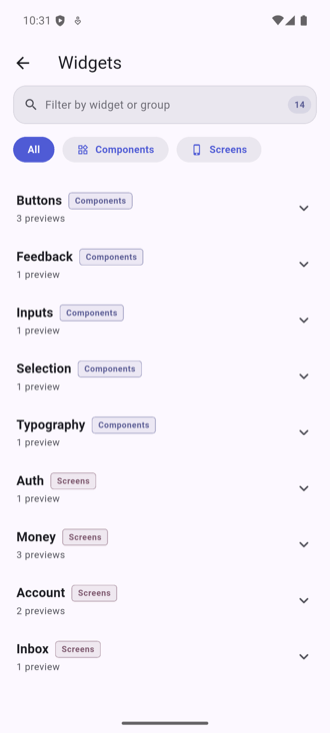
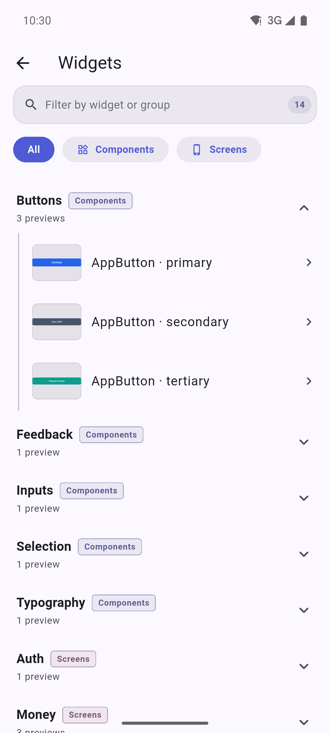
readme and ss updated

diff --git a/README.md b/README.md
@@ -121,6 +121,10 @@ The landing screen provides global search and recently viewed items for quickly 
 
 The landing screen also provides an asset size breakdown to visualise the size contribution of each asset type.
 
+| Asset size breakdown                                                                                                                        |
+| ------------------------------------------------------------------------------------------------------------------------------------------- |
+| <img src="https://raw.githubusercontent.com/anupam92402/PreviewHub/master/screenshots/asset_sizes.png" alt="Asset size breakdown" width="180"> |
+
 Bundled assets are discovered from Flutter's asset and font manifests, so they don't need to be registered manually. Remote assets are validated before being displayed.
 
 ## Why PreviewHub?
